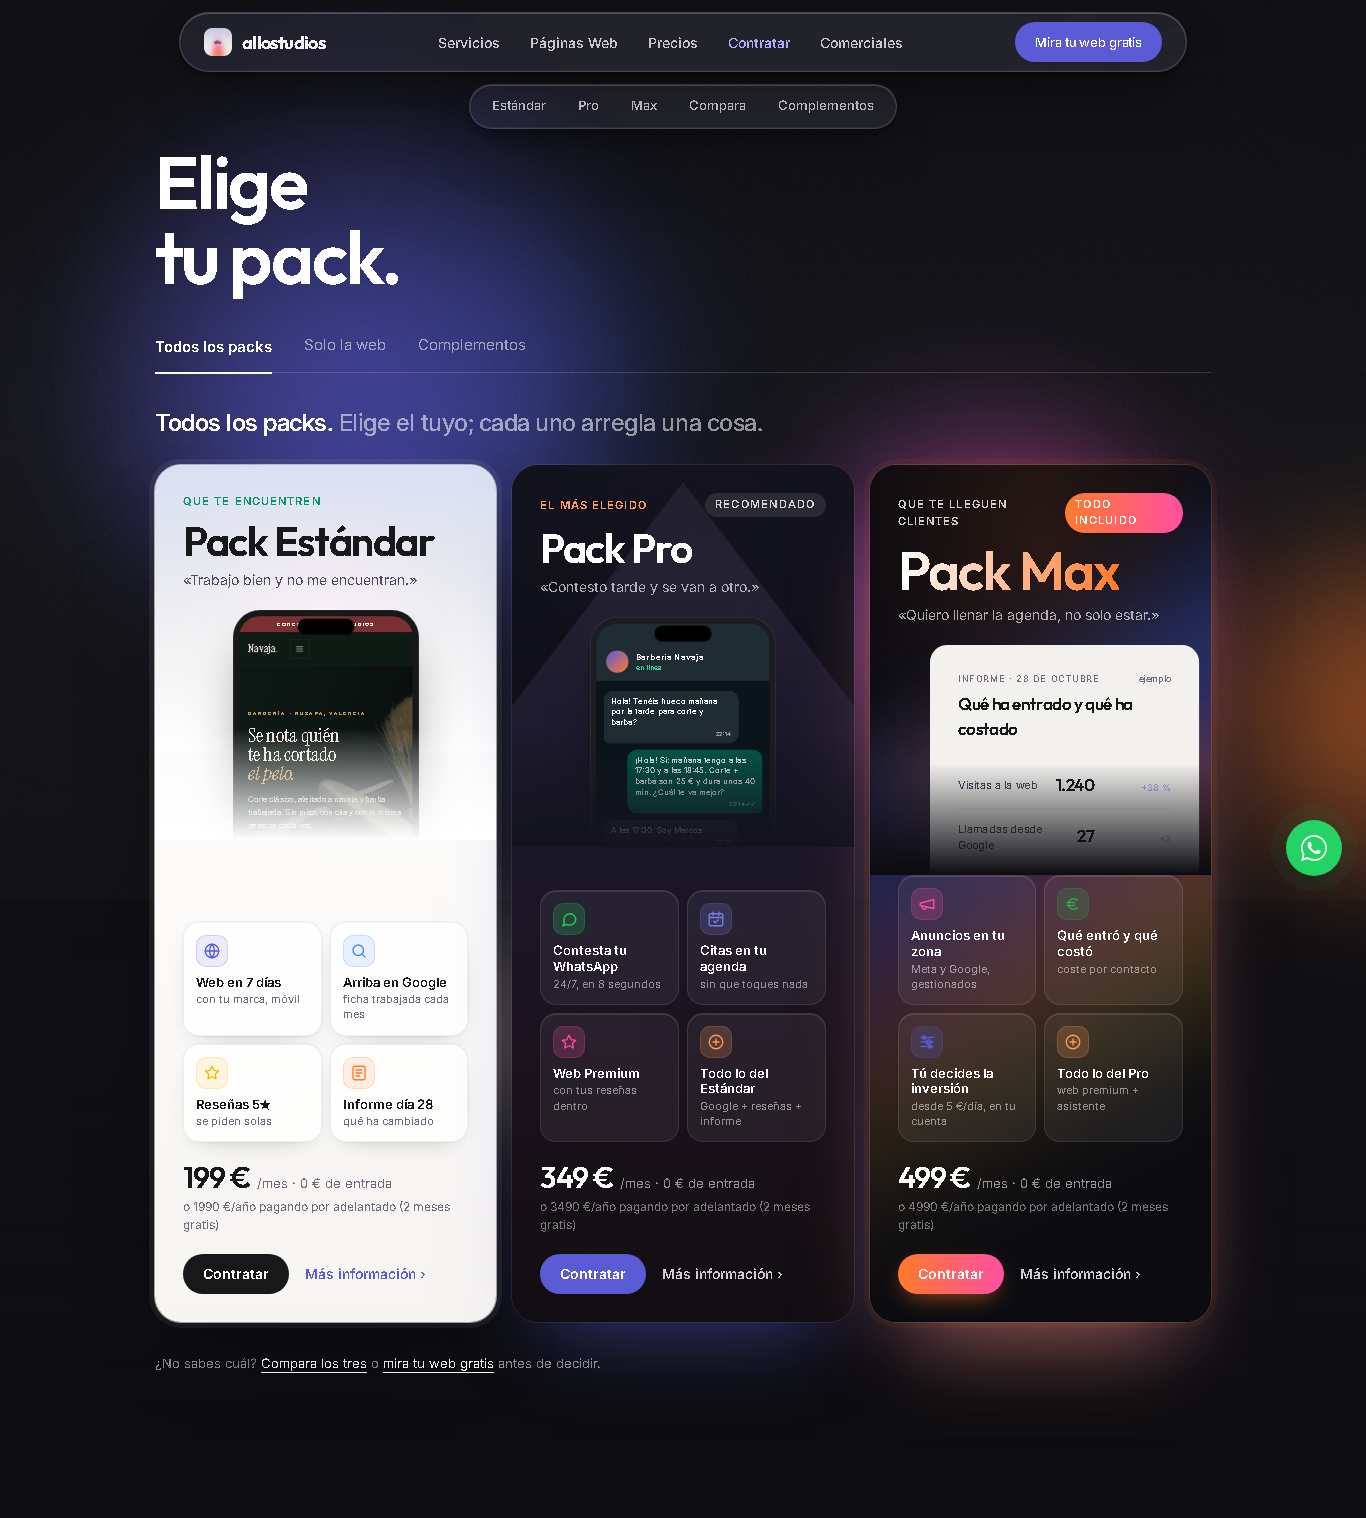
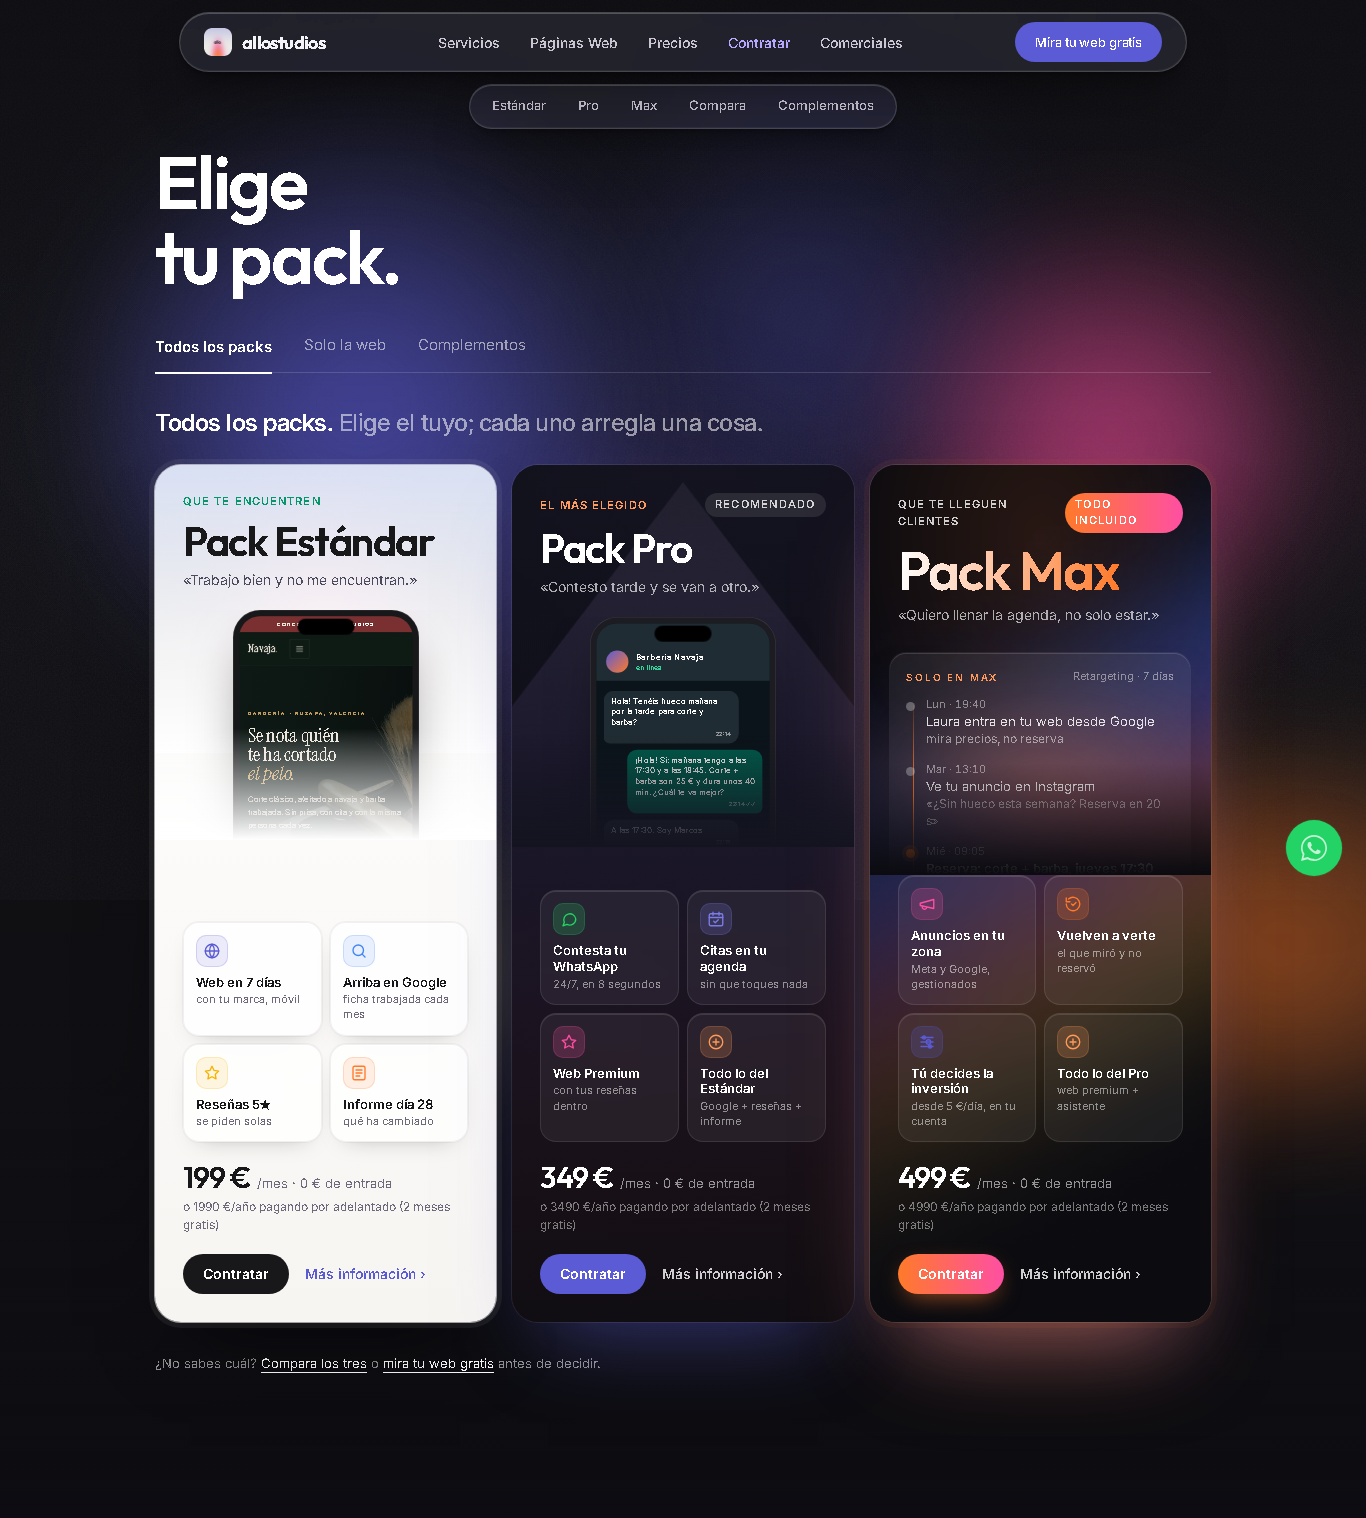
Max: un solo MAX (la palabra es el título: nace plana bajo el subtítulo y al bajar se inclina, crece y llena el capítulo); función exclusiva de Max en tienda y capítulo: retargeting (el que miró y no reservó vuelve a verte 7 días)

Changed region(s): [[0.4919, 0.1238, 1.0, 0.7431], [0.3382, 0.6812, 0.3997, 0.7121], [0.369, 0.4025, 0.3997, 0.4335]]

diff --git a/apps/web/src/components/home2/CapituloPack.tsx b/apps/web/src/components/home2/CapituloPack.tsx
@@ -53,10 +53,6 @@ export default function CapituloPack({
   const { scrollYProgress } = useScroll({ target: ref, offset: ['start end', 'end start'] })
   const escala = useTransform(scrollYProgress, [0, 0.3], [0.92, 1])
   const subida = useTransform(scrollYProgress, [0, 0.3], [48, 0])
-  // Max: el título se disuelve hacia abajo y crece mientras nace la palabra grande del fondo (una se convierte en la otra)
-  const tituloOp = useTransform(scrollYProgress, [0.05, 0.115], [1, 0])
-  const tituloEsc = useTransform(scrollYProgress, [0.05, 0.13], [1, 2.4])
-  const tituloY = useTransform(scrollYProgress, [0.05, 0.13], ['0%', '120%'])
 
   const T = oscuro
     ? { ink: 'text-white', dim: 'text-white/60', muted: 'text-white/40', line: 'border-white/10', shell: 'bg-white/[.04] ring-1 ring-white/10', core: 'bg-[rgba(18,17,24,.78)] shadow-[inset_0_1px_1px_rgba(255,255,255,.12)]' }
@@ -89,25 +85,25 @@ export default function CapituloPack({
         {/* 1 · Nombre + dolor */}
         <div className="text-center max-w-3xl mx-auto">
           <Entrada><Pill><span className={`w-1.5 h-1.5 rounded-full ${nivel === 3 ? 'bg-[#FF7A2A]' : 'bg-accent'}`} />Pack {numero}{destacado ? ' · el más elegido' : nivel === 3 ? ' · todo incluido' : ''}</Pill></Entrada>
-          <motion.div style={nivel === 3 ? { opacity: tituloOp, scale: tituloEsc, y: tituloY, transformOrigin: '50% 100%' } : undefined}>
+          {nivel !== 3 && (
             <motion.h2
               initial={{ opacity: 0, y: 36, filter: 'blur(10px)' }} whileInView={{ opacity: 1, y: 0, filter: 'blur(0px)' }}
               viewport={{ once: true }} transition={{ duration: 1, ease: EASE }}
               className={`mt-7 font-display text-[clamp(3.6rem,10vw,8.5rem)] leading-[.92] font-semibold tracking-[-0.05em] ${T.ink}`}
             >
-              {nivel === 3
-                ? <span style={{ background: 'linear-gradient(90deg,#fff 0%,#FFC2A0 50%,#FF7A2A 100%)', WebkitBackgroundClip: 'text', color: 'transparent' }}>{nombre}.</span>
-                : <>{nombre}<span className="acento">.</span></>}
+              {nombre}<span className="acento">.</span>
             </motion.h2>
-          </motion.div>
+          )}
           <Entrada delay={0.15}>
             <p className={`mt-7 text-[clamp(1.4rem,2.8vw,2.1rem)] leading-snug font-medium tracking-[-0.025em] ${T.ink} text-balance`}>«{dolor}»</p>
             <p className={`mt-3 text-[15px] ${T.dim} font-light`}>{quien}</p>
           </Entrada>
+          {/* Max: aquí vive la palabra. Es el título y es la animación: nace plana como un titular y al bajar se inclina, crece y llena el recuadro (FondoMax). */}
+          {nivel === 3 && <div className="h-[34vh] md:h-[46vh]" aria-hidden />}
         </div>
 
         {/* 2 · Visual */}
-        <div className={`${nivel === 3 ? 'mt-[30vh] md:mt-[36vh]' : 'mt-16 md:mt-24'} grid grid-cols-1 lg:grid-cols-[1fr_auto] gap-10 lg:gap-8 items-start`}>
+        <div className={`${nivel === 3 ? 'mt-[10vh] md:mt-[14vh]' : 'mt-16 md:mt-24'} grid grid-cols-1 lg:grid-cols-[1fr_auto] gap-10 lg:gap-8 items-start`}>
           <motion.div style={{ scale: escala, y: subida }} className="flex justify-center lg:justify-start min-w-0">
             {efecto === 'busqueda' ? <BusquedaEnVivo progreso={scrollYProgress} sinMovil /> : efecto === 'chat' ? <ChatEnVivo progreso={scrollYProgress} /> : visual}
           </motion.div>

diff --git a/apps/web/src/components/home2/Fondos.tsx b/apps/web/src/components/home2/Fondos.tsx
@@ -59,14 +59,15 @@ export function FondoPro({ progreso }: { progreso: MotionValue<number> }) {
 }
 
 export function FondoMax({ progreso, palabra }: { progreso: MotionValue<number>; palabra: string }) {
-  // Nace del título (pequeña, tumbada, donde estaba «Max.»), se levanta y crece hasta llenar el recuadro.
-  const escala = useTransform(progreso, [0.11, 0.42, 0.95], [0.4, 1, 1.03])
-  const giro = useTransform(progreso, [0.11, 0.5], [58, 4])
-  const y = useTransform(progreso, [0.11, 0.95], ['6%', '-22%'])
-  // Nace cuando el título ya se ha ido del todo; cuando el mosaico y la caja pasan por encima, baja a un quinto
-  const opacidad = useTransform(progreso, [0.115, 0.19, 0.3, 0.4, 1], [0, 1, 1, 0.22, 0.16])
-  const barridoY = useTransform(progreso, [0.12, 0.6], ['-10%', '110%'])
-  const brillo = useTransform(progreso, [0.1, 0.9], ['120%', '-20%'])
+  // Un solo MAX. Al entrar (progreso ≈ 0,1: la sección ocupa la pantalla) es un titular plano bajo el
+  // subtítulo; al bajar se inclina hacia atrás, crece hasta llenar el recuadro y se queda pegado a la
+  // pantalla mientras dura el capítulo. Cuando el mosaico y la caja pasan por encima, baja a un quinto.
+  const escala = useTransform(progreso, [0.06, 0.16, 0.42, 0.95], [0.27, 0.3, 1, 1.03])
+  const giro = useTransform(progreso, [0.14, 0.24, 0.5], [0, 55, 4])
+  const y = useTransform(progreso, [0.06, 0.16, 0.5, 0.95], ['0%', '0%', '-14%', '-24%'])
+  const opacidad = useTransform(progreso, [0, 0.04, 0.3, 0.4, 1], [0, 1, 1, 0.22, 0.16])
+  const barridoY = useTransform(progreso, [0.16, 0.6], ['-10%', '110%'])
+  const brillo = useTransform(progreso, [0.16, 0.9], ['120%', '-20%'])
   const metal = {
     background: 'linear-gradient(180deg, #FFF1E6 0%, #FFCFAE 18%, #FF9A5C 36%, #8E3A1F 50%, #FFB07A 58%, #C9542A 74%, #3A1610 100%)',
     WebkitBackgroundClip: 'text', color: 'transparent',
@@ -78,8 +79,8 @@ export function FondoMax({ progreso, palabra }: { progreso: MotionValue<number>;
         className="absolute inset-0" style={{ background: 'radial-gradient(55% 40% at 50% 60%, rgba(255,122,42,.45), rgba(255,79,163,.12) 55%, transparent 75%)' }} />
       {/* escenario con perspectiva: pegado a la pantalla mientras dura el capítulo */}
       <div className="sticky top-0 h-screen w-full flex items-start justify-center overflow-hidden" style={{ perspective: '760px' }}>
-        <motion.div style={{ scale: escala, rotateX: giro, y, opacity: opacidad, transformOrigin: '50% 100%' }}
-          className="relative mt-[2vh] md:mt-[4vh] font-display font-semibold leading-none tracking-[-0.07em] select-none whitespace-nowrap">
+        <motion.div style={{ scale: escala, rotateX: giro, y, opacity: opacidad, transformOrigin: '50% 0%' }}
+          className="relative mt-[38vh] md:mt-[40vh] font-display font-semibold leading-none tracking-[-0.07em] select-none whitespace-nowrap">
           {/* sombra proyectada */}
           <span className="absolute inset-0 block text-[46vw] md:text-[40vw]" style={{ color: 'rgba(0,0,0,.55)', transform: 'translateY(2.5%) scaleY(.96)', filter: 'blur(14px)' }}>{palabra}</span>
           {/* metal */}

diff --git a/apps/web/src/components/home2/ElegirPack.tsx b/apps/web/src/components/home2/ElegirPack.tsx
@@ -3,7 +3,8 @@
 import { motion } from 'framer-motion'
 import { useState } from 'react'
 import { WEBS, porClave, eur } from '@/lib/precios'
-import { VisualChat, VisualInforme, VisualWeb } from './Visuales'
+import { VisualChat, VisualWeb } from './Visuales'
+import { Retargeting } from './Piezas'
 
 /*  "Elige tu pack" — la tienda (como "Comprar un iPhone"): título, pestañas y tres
     tarjetas. Cuanto más caro, más premium la presentación: Estándar es papel blanco,
@@ -24,8 +25,8 @@ const NIVELES = [
   },
   {
     clave: 'PACK_MAX', nivel: 3, etiqueta: 'Que te lleguen clientes', nombre: 'Max',
-    dolor: 'Quiero llenar la agenda, no solo estar.', visual: <VisualInforme compacto />, cap: '#max', luz: 'prisma',
-    rejilla: [['ads', 'Anuncios en tu zona', 'Meta y Google, gestionados'], ['euro', 'Qué entró y qué costó', 'coste por contacto'], ['control', 'Tú decides la inversión', 'desde 5 €/día, en tu cuenta'], ['mas', 'Todo lo del Pro', 'web premium + asistente']],
+    dolor: 'Quiero llenar la agenda, no solo estar.', visual: <div className="pt-2"><Retargeting compacto /></div>, cap: '#max', luz: 'prisma',
+    rejilla: [['ads', 'Anuncios en tu zona', 'Meta y Google, gestionados'], ['retarget', 'Vuelven a verte', 'el que miró y no reservó'], ['control', 'Tú decides la inversión', 'desde 5 €/día, en tu cuenta'], ['mas', 'Todo lo del Pro', 'web premium + asistente']],
   },
 ]
 
@@ -40,11 +41,12 @@ const ICONOS: Record<string, string> = {
   mas: '<circle cx="12" cy="12" r="9"/><path d="M12 8v8M8 12h8"/>',
   ads: '<path d="m3 11 18-5v12L3 14v-3z"/><path d="M11.6 16.8a3 3 0 1 1-5.8-1.6"/>',
   euro: '<path d="M18 7a7 7 0 1 0 0 10"/><path d="M4 10h10M4 14h10"/>',
+  retarget: '<path d="M3 12a9 9 0 1 0 3-6.7"/><path d="M3 4v5h5"/><path d="m10 12 2 2 4-4"/>',
   control: '<path d="M4 12h16"/><circle cx="14" cy="12" r="3"/><path d="M4 6h16M4 18h16"/><circle cx="8" cy="6" r="2"/><circle cx="16" cy="18" r="2"/>',
 }
 const COLOR: Record<string, string> = {
   web: '#5B5BD6', google: '#4285F4', estrella: '#F5B301', informe: '#FF7A2A', chat: '#25D366', agenda: '#7C7CE8',
-  premium: '#FF4FA3', mas: '#FF9A5C', ads: '#FF4FA3', euro: '#34A853', control: '#5B5BD6',
+  premium: '#FF4FA3', mas: '#FF9A5C', ads: '#FF4FA3', euro: '#34A853', control: '#5B5BD6', retarget: '#FF7A2A',
 }
 function Icono({ k }: { k: string }) {
   return (

diff --git a/apps/web/src/components/home2/Piezas.tsx b/apps/web/src/components/home2/Piezas.tsx
@@ -174,3 +174,32 @@ export function Escena({ oscuro, cuando, que }: { oscuro?: boolean; cuando: stri
     </div>
   )
 }
+
+/* ── Solo en Max: retargeting. El que entró en tu web y no reservó vuelve a verte, hasta que reserva ── */
+const PASOS_RT = [
+  ['Lun · 19:40', 'Laura entra en tu web desde Google', 'mira precios, no reserva', false],
+  ['Mar · 13:10', 'Ve tu anuncio en Instagram', '«¿Sin hueco esta semana? Reserva en 20 s»', false],
+  ['Mié · 09:05', 'Reserva: corte + barba, jueves 17:30', 'sin que tú hicieras nada', true],
+] as const
+export function Retargeting({ compacto }: { compacto?: boolean }) {
+  return (
+    <motion.div {...ap(0.1)} className={`w-full ${compacto ? 'max-w-[300px]' : 'max-w-[380px]'} rounded-2xl p-4 text-white`}
+      style={{ background: 'linear-gradient(180deg, rgba(255,255,255,.07), rgba(255,255,255,.03))', boxShadow: 'inset 0 1px 0 rgba(255,255,255,.14), 0 24px 50px -24px rgba(0,0,0,.6), 0 0 0 1px rgba(255,255,255,.08)' }}>
+      <div className="flex items-center justify-between mb-3">
+        <span className="text-[10px] uppercase tracking-[0.18em] font-semibold text-[#FF9A5C]">Solo en Max</span>
+        <span className="text-[10.5px] text-white/45">Retargeting · 7 días</span>
+      </div>
+      <div className="relative pl-5">
+        <span className="absolute left-[7px] top-2 bottom-2 w-px" style={{ background: 'linear-gradient(180deg, rgba(255,122,42,.1), #FF7A2A 50%, rgba(255,122,42,.1))' }} />
+        {PASOS_RT.map(([h, t, d, fin], i) => (
+          <motion.div key={h} initial={{ opacity: 0, x: -8 }} whileInView={{ opacity: 1, x: 0 }} viewport={{ once: true }} transition={{ delay: 0.25 + i * 0.25 }} className={`relative ${i < PASOS_RT.length - 1 ? 'mb-3.5' : ''}`}>
+            <span className={`absolute -left-5 top-[5px] w-[9px] h-[9px] rounded-full ${fin ? 'bg-[#FF7A2A] shadow-[0_0_0_4px_rgba(255,122,42,.25)]' : 'bg-white/30'}`} />
+            <div className="text-[10.5px] text-white/45 tabular-nums">{h}</div>
+            <div className={`text-[13px] leading-snug ${fin ? 'font-semibold text-white' : 'text-white/85'}`}>{t}</div>
+            <div className="text-[11.5px] text-white/50">{d}</div>
+          </motion.div>
+        ))}
+      </div>
+    </motion.div>
+  )
+}

diff --git a/apps/web/src/app/preview/home/page.tsx b/apps/web/src/app/preview/home/page.tsx
@@ -17,7 +17,7 @@ import ComparaPacks from '@/components/home2/ComparaPacks'
 import Complementos from '@/components/home2/Complementos'
 import ElegirPack from '@/components/home2/ElegirPack'
 import { VisualInforme } from '@/components/home2/Visuales'
-import { FichaGoogle, Notificacion, Agenda, Anuncio, CostePorContacto, Escena } from '@/components/home2/Piezas'
+import { FichaGoogle, Notificacion, Agenda, Anuncio, Retargeting, Escena } from '@/components/home2/Piezas'
 
 export const metadata: Metadata = {
   title: 'Home nueva (vista previa)',
@@ -138,9 +138,9 @@ export default function PreviewHome() {
               nodo: <Anuncio />,
             },
             {
-              titulo: 'Sabes lo que cuesta cada persona que te escribe.',
-              sub: 'No "impresiones" ni "alcance": contactos y lo que ha costado cada uno. Si sube, lo arreglamos; si baja, subimos.',
-              nodo: <CostePorContacto oscuro />, ancho: 2,
+              titulo: 'El que miró tu web y no reservó, vuelve a verte. Hasta que reserva.',
+              sub: 'Solo en Max: retargeting. Quien entra desde Google y se va sin pedir cita ve tu anuncio durante 7 días. Es donde está la mitad de las reservas.',
+              nodo: <Retargeting />, ancho: 2,
             },
             {
               titulo: 'La inversión la decides tú y va en tu cuenta.',
